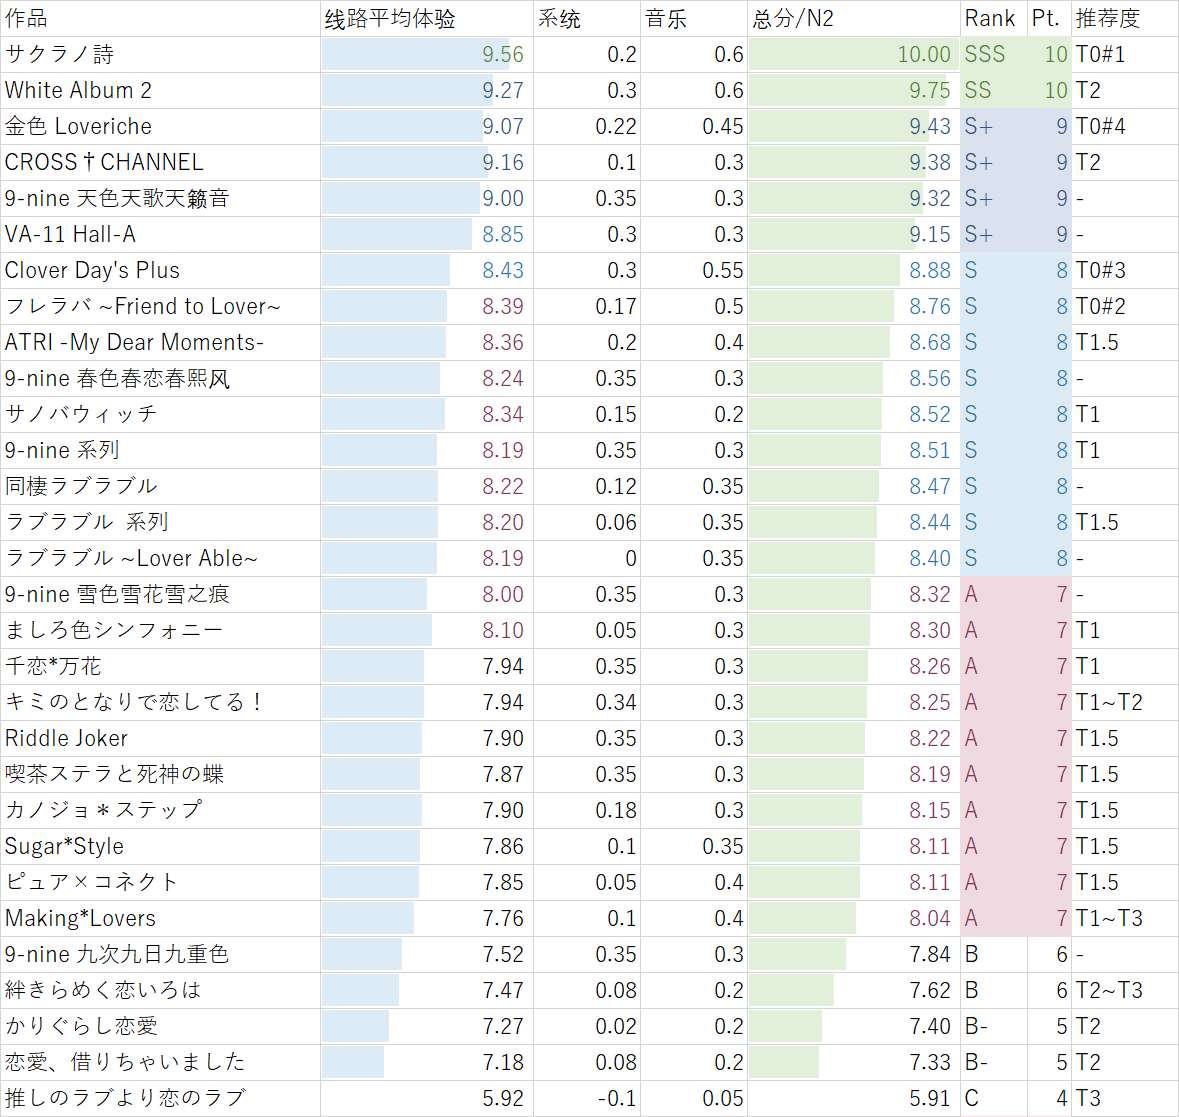
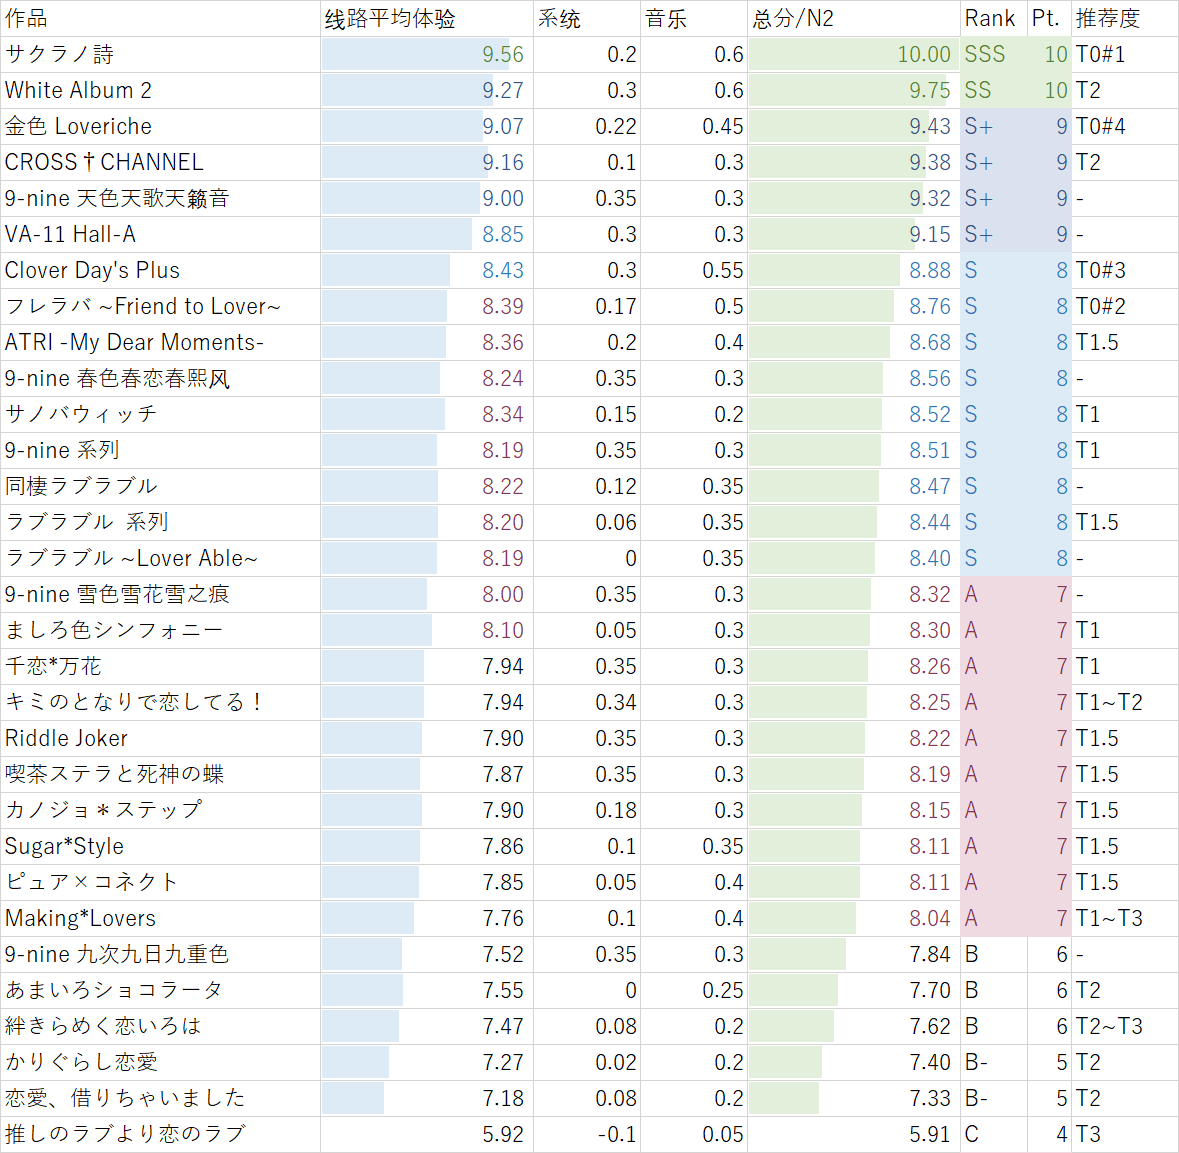
MoeImp amachoco-mikuri

diff --git a/impression/amachoco.md b/impression/amachoco.md
@@ -19,11 +19,10 @@ permalink: /impression/amachoco
 | あまいろショコラータ | 概览 |
 | :----: | ----: |
 | 共通 |9.30|
-| 千絵莉 |-|
-| みくり |-|
-| 后宫 |-|
-| 整体评分 |-<br />N-|
-| Rank |-|
+| 千絵莉 |9.45|
+| みくり |9.55|
+| 整体评分 |9.68<br />N7.70|
+| Rank |B|
 
 事先说好：因为我对 galgame 中的 H-scene 毫无兴趣，所以 H-scene 在作品评价中除了对剧情的推动作用之外一概不考虑。
 
@@ -57,12 +56,38 @@ permalink: /impression/amachoco
 
 一个推测：一个人只有那么两三套衣服。但是连和服都懒得画是不是有点过了……
 
+## 美久栗
+
+印象分 9.15→8.3/10 趣味性 0.25/0.3 情感 0.15/0.5  
+人物刻画 0.2/0.5 剧情 -0.05/0.5  
+人物（声音 + 作画）(0.3+0.4)/(0.3+0.4)  
+总计 9.55/12.5
+
+「一起造小孩吧」这发言太二次元了，我麻了。
+
+剩下的忘了，总之没啥好说的。
+
+## 后宫
+
+不是这玩意有啥好说的，就简单的福利而已。
+
+而且个人线中还不知道恋爱为何物的美久栗在这醉酒告白拉满，违和感 max。
+
 ## 系统与音乐
 
-系统 ±0.0 音乐 +0.25
+线路平均 9.43  
+系统 ±0.0  
+音乐 +0.25
+总分 9.68/N7.70 B
 
-没啥好说的就那么回事。没有梱妈白玉的作画就什么也不是的作品。
+没啥好说的就那么回事。没有梱妈白玉的作画就**什么也不是**的作品。但是至少不恶心人，比隔壁颜艺社的两作还是要强上一点的。
+
+顺便一提这游戏错别字太多了！
 
 这作绝对是本来设计四个女主结果砍掉了两个剩下两个吧……且不说出场方式和 OP 戏份，甚至在 CG 鉴赏都留出了空位，绝了。
 
 有一说一我想推莓华。
+
+顺便吐槽一下，这帮兽人说好了在城市生活的时候隐藏身份，却毫不掩饰地在大街上谈论兽人话题真的没问题吗？
+
+**但是不幸！这就是业界制作水平的众数水平！**

diff --git a/impression/avg.md b/impression/avg.md
@@ -449,12 +449,12 @@ permalink: /impression/avg
     <tr>
       <td style="text-align: right">27</td>
       <td><a href="http://yoro.xyz/impression/amachoco">あまいろショコラータ（巧可甜恋）</a></td>
-      <td style="text-align: right">-</td>
-      <td style="text-align: center">-</td>
+      <td style="text-align: right">7.70</td>
+      <td style="text-align: center">B</td>
       <td style="text-align: right">66×6.35<br>#4150</td>
       <td style="text-align: right">61×69<br>(70)</td>
       <td style="text-align: center">萌</td>
-      <td style="text-align: center">-</td>
+      <td style="text-align: center">T2</td>
     </tr>
   </tbody>
 </table>
